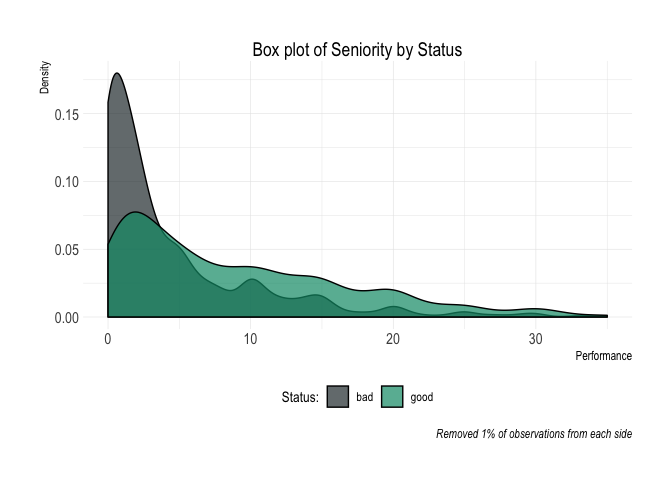
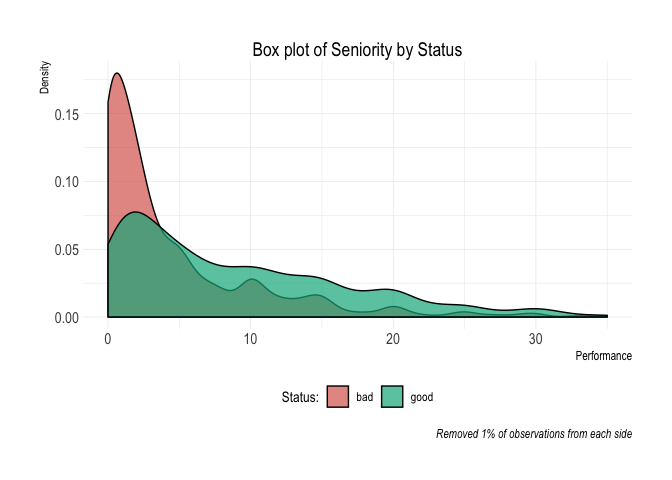
updated README file after all changes were made

Changed region(s): [[0.1562, 0.1562, 0.625, 0.6562], [0.4688, 0.7812, 0.5312, 0.8438]]

diff --git a/README.md b/README.md
@@ -3,11 +3,13 @@
 
 # ggrapid: Create neat & complete ggplot visualizations with as little code as possible
 
+## Overview
+
 ggrapid enables creation of the most common ggplot-based visualizations
 fast and with just a few lines of code. ggrapid comes handy when you’d
-like to do an initial and quick EDA over various columns of your dataset
-programatically, without the need of writing a lot of custom ggplot
-code.
+like to do an initial and quick EDA (Exploratory Data Analysis) over
+various columns of your dataset programatically, without the need of
+writing a lot of custom ggplot code.
 
 ## Installation
 
@@ -205,7 +207,8 @@ credit_data_nested <- credit_data %>%
                            quantile_low = 0.01,
                            quantile_high = 0.99,
                            lab_x = "Performance",
-                           caption = "Removed 1% of observations from each side"
+                           caption = "Removed 1% of observations from each side",
+                           palette = "inv_binary"
                            )
     ),
     plot_density  = pmap(list(x = data, y = variable),
@@ -217,13 +220,14 @@ credit_data_nested <- credit_data %>%
                        quantile_low = 0.01,
                        quantile_high = 0.99,
                        lab_x = "Performance",
-                       caption = "Removed 1% of observations from each side"
+                       caption = "Removed 1% of observations from each side",
+                       palette = "inv_binary"
                        )
     )
   )
 ```
 
-This will give you the following structure, where each row represents an
+This will give you the following structure. Each row represents an
 individual variable and columns are the different plots you would like
 to inspect:
 
@@ -239,8 +243,8 @@ credit_data_nested[1:3, ]
 
 ## Exemplary EDA format
 
-Then creating a standardised EDA file is just as easy as doing something
-like this:
+Creating a standardised EDA file is just as easy as doing something like
+this:
 
 ### Variable: Seniority
 
@@ -249,18 +253,18 @@ like this:
 ``` r
 credit_data_nested$decile_table[[1]]
 #> # A tibble: 10 x 8
-#>    decile   min median   max top_level total bottom_level ratio
-#>    <fct>  <dbl>  <dbl> <dbl>     <int> <int>        <int> <dbl>
-#>  1 1          0      0     0       235   446          211 0.527
-#>  2 2          0      1     1       209   445          236 0.470
-#>  3 3          1      2     2       174   446          272 0.390
-#>  4 4          2      3     3       146   445          299 0.328
-#>  5 5          3      4     5       122   445          323 0.274
-#>  6 6          5      6     8       105   446          341 0.235
-#>  7 7          8     10    10        88   445          357 0.198
-#>  8 8         10     12    14        76   446          370 0.170
-#>  9 9         14     16    20        54   445          391 0.121
-#> 10 10        20     25    48        45   445          400 0.101
+#>    decile   min median   max top_level total bottom_level ratio     
+#>    <fct>  <dbl>  <dbl> <dbl>     <int> <int>        <int> <formttbl>
+#>  1 1          0      0     0       235   446          211 52.69%    
+#>  2 2          0      1     1       209   445          236 46.97%    
+#>  3 3          1      2     2       174   446          272 39.01%    
+#>  4 4          2      3     3       146   445          299 32.81%    
+#>  5 5          3      4     5       122   445          323 27.42%    
+#>  6 6          5      6     8       105   446          341 23.54%    
+#>  7 7          8     10    10        88   445          357 19.78%    
+#>  8 8         10     12    14        76   446          370 17.04%    
+#>  9 9         14     16    20        54   445          391 12.13%    
+#> 10 10        20     25    48        45   445          400 10.11%
 ```
 
 ``` r
@@ -290,18 +294,18 @@ credit_data_nested$plot_density[[1]]
 ``` r
 credit_data_nested$decile_table[[2]]
 #> # A tibble: 10 x 8
-#>    decile   min median   max top_level total bottom_level ratio
-#>    <fct>  <dbl>  <dbl> <dbl>     <int> <int>        <int> <dbl>
-#>  1 1          6     18    24        64   446          382 0.143
-#>  2 2         24     30    36       109   445          336 0.245
-#>  3 3         36     36    36       124   446          322 0.278
-#>  4 4         36     36    48       136   445          309 0.306
-#>  5 5         48     48    48       135   445          310 0.303
-#>  6 6         48     48    60       125   446          321 0.280
-#>  7 7         60     60    60       133   445          312 0.299
-#>  8 8         60     60    60       155   446          291 0.348
-#>  9 9         60     60    60       129   445          316 0.290
-#> 10 10        60     60    72       144   445          301 0.324
+#>    decile   min median   max top_level total bottom_level ratio     
+#>    <fct>  <dbl>  <dbl> <dbl>     <int> <int>        <int> <formttbl>
+#>  1 1          6     18    24        64   446          382 14.35%    
+#>  2 2         24     30    36       109   445          336 24.49%    
+#>  3 3         36     36    36       124   446          322 27.80%    
+#>  4 4         36     36    48       136   445          309 30.56%    
+#>  5 5         48     48    48       135   445          310 30.34%    
+#>  6 6         48     48    60       125   446          321 28.03%    
+#>  7 7         60     60    60       133   445          312 29.89%    
+#>  8 8         60     60    60       155   446          291 34.75%    
+#>  9 9         60     60    60       129   445          316 28.99%    
+#> 10 10        60     60    72       144   445          301 32.36%
 ```
 
 ``` r
